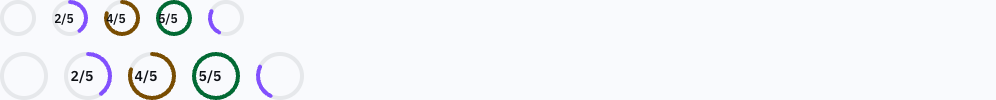
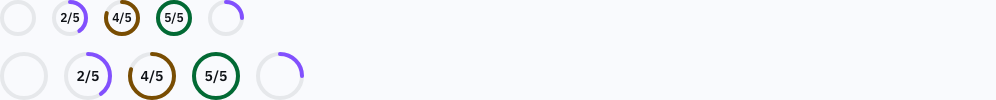
fix(ui): centre the ring's text
The ring inherited the bar's `1fr auto` grid columns and gap, so its
centre sat in a cell narrower than the ring, 6px left of middle. It now
has one column. Ring and dark screenshots re-shot.

diff --git a/packages/ui/src/styles/progress.css b/packages/ui/src/styles/progress.css
@@ -128,6 +128,8 @@
   --_d: var(--sc-size-progress-ring-md);
   position: relative;
   display: inline-grid;
+  /* one cell the size of the ring: the bar's `1fr auto` columns and gap would put the centre left of middle */
+  grid-template-columns: 1fr;
   place-items: center;
   flex: none;
   inline-size: var(--_d);
